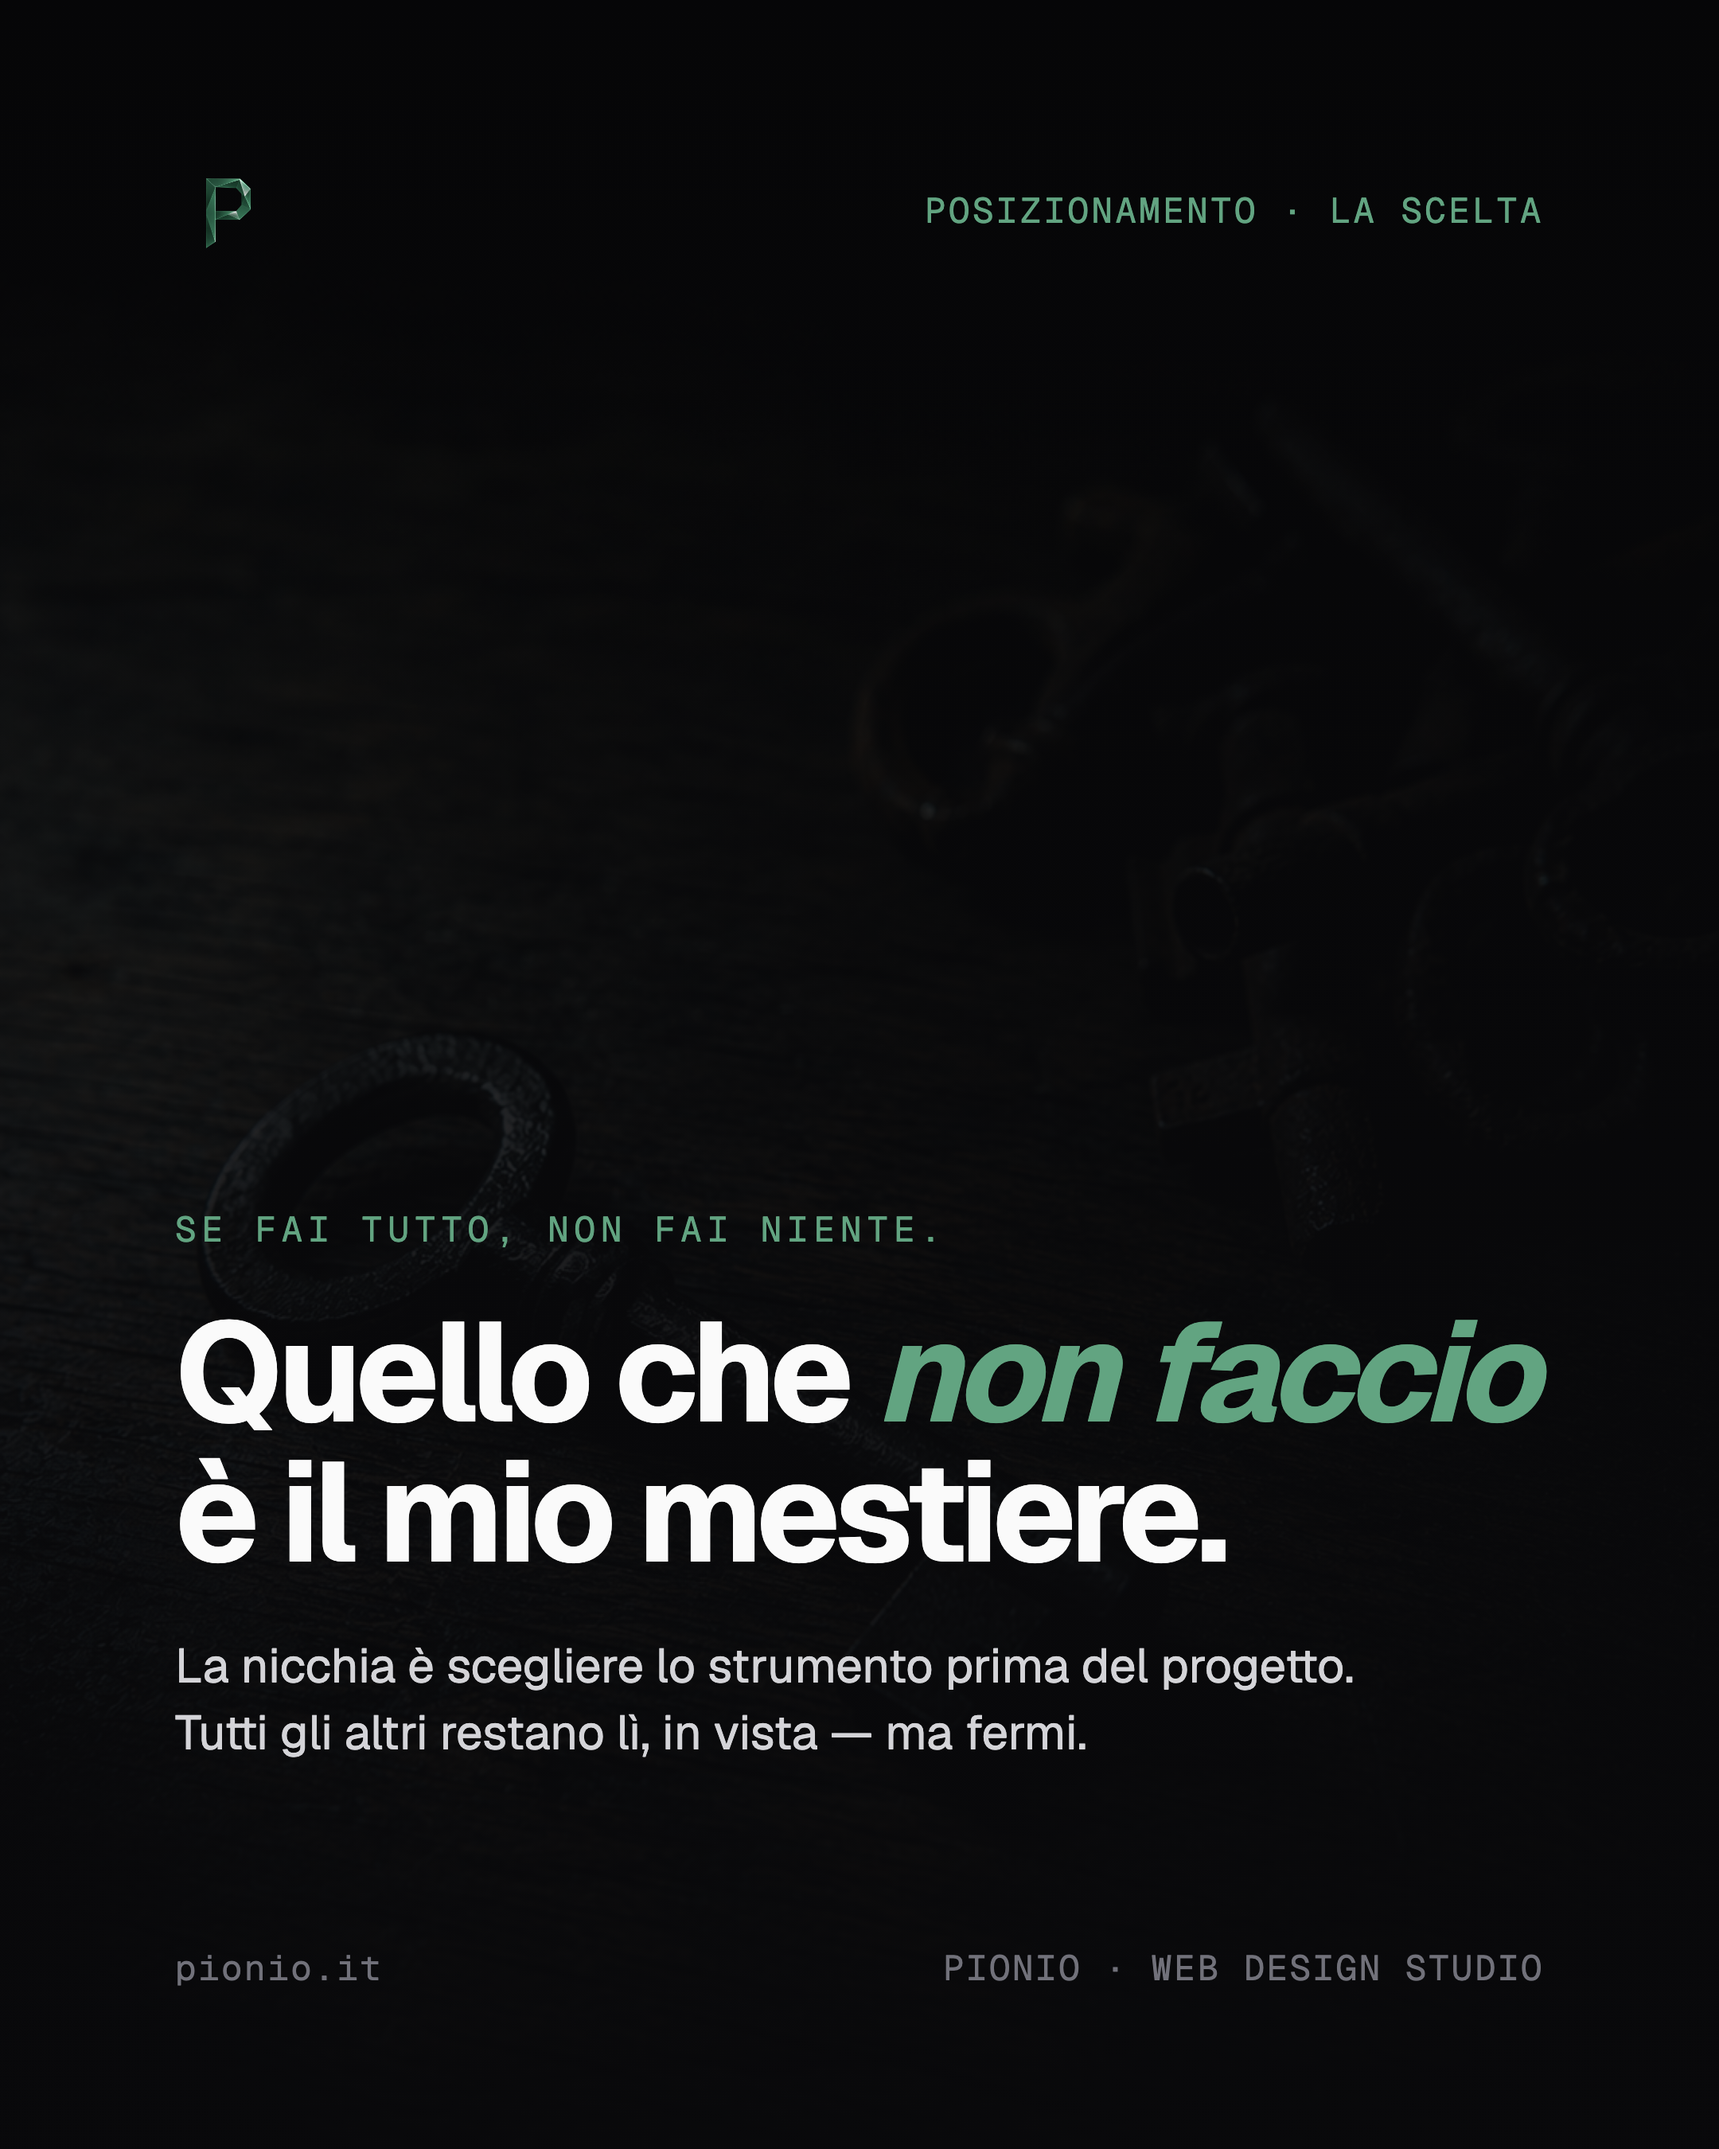
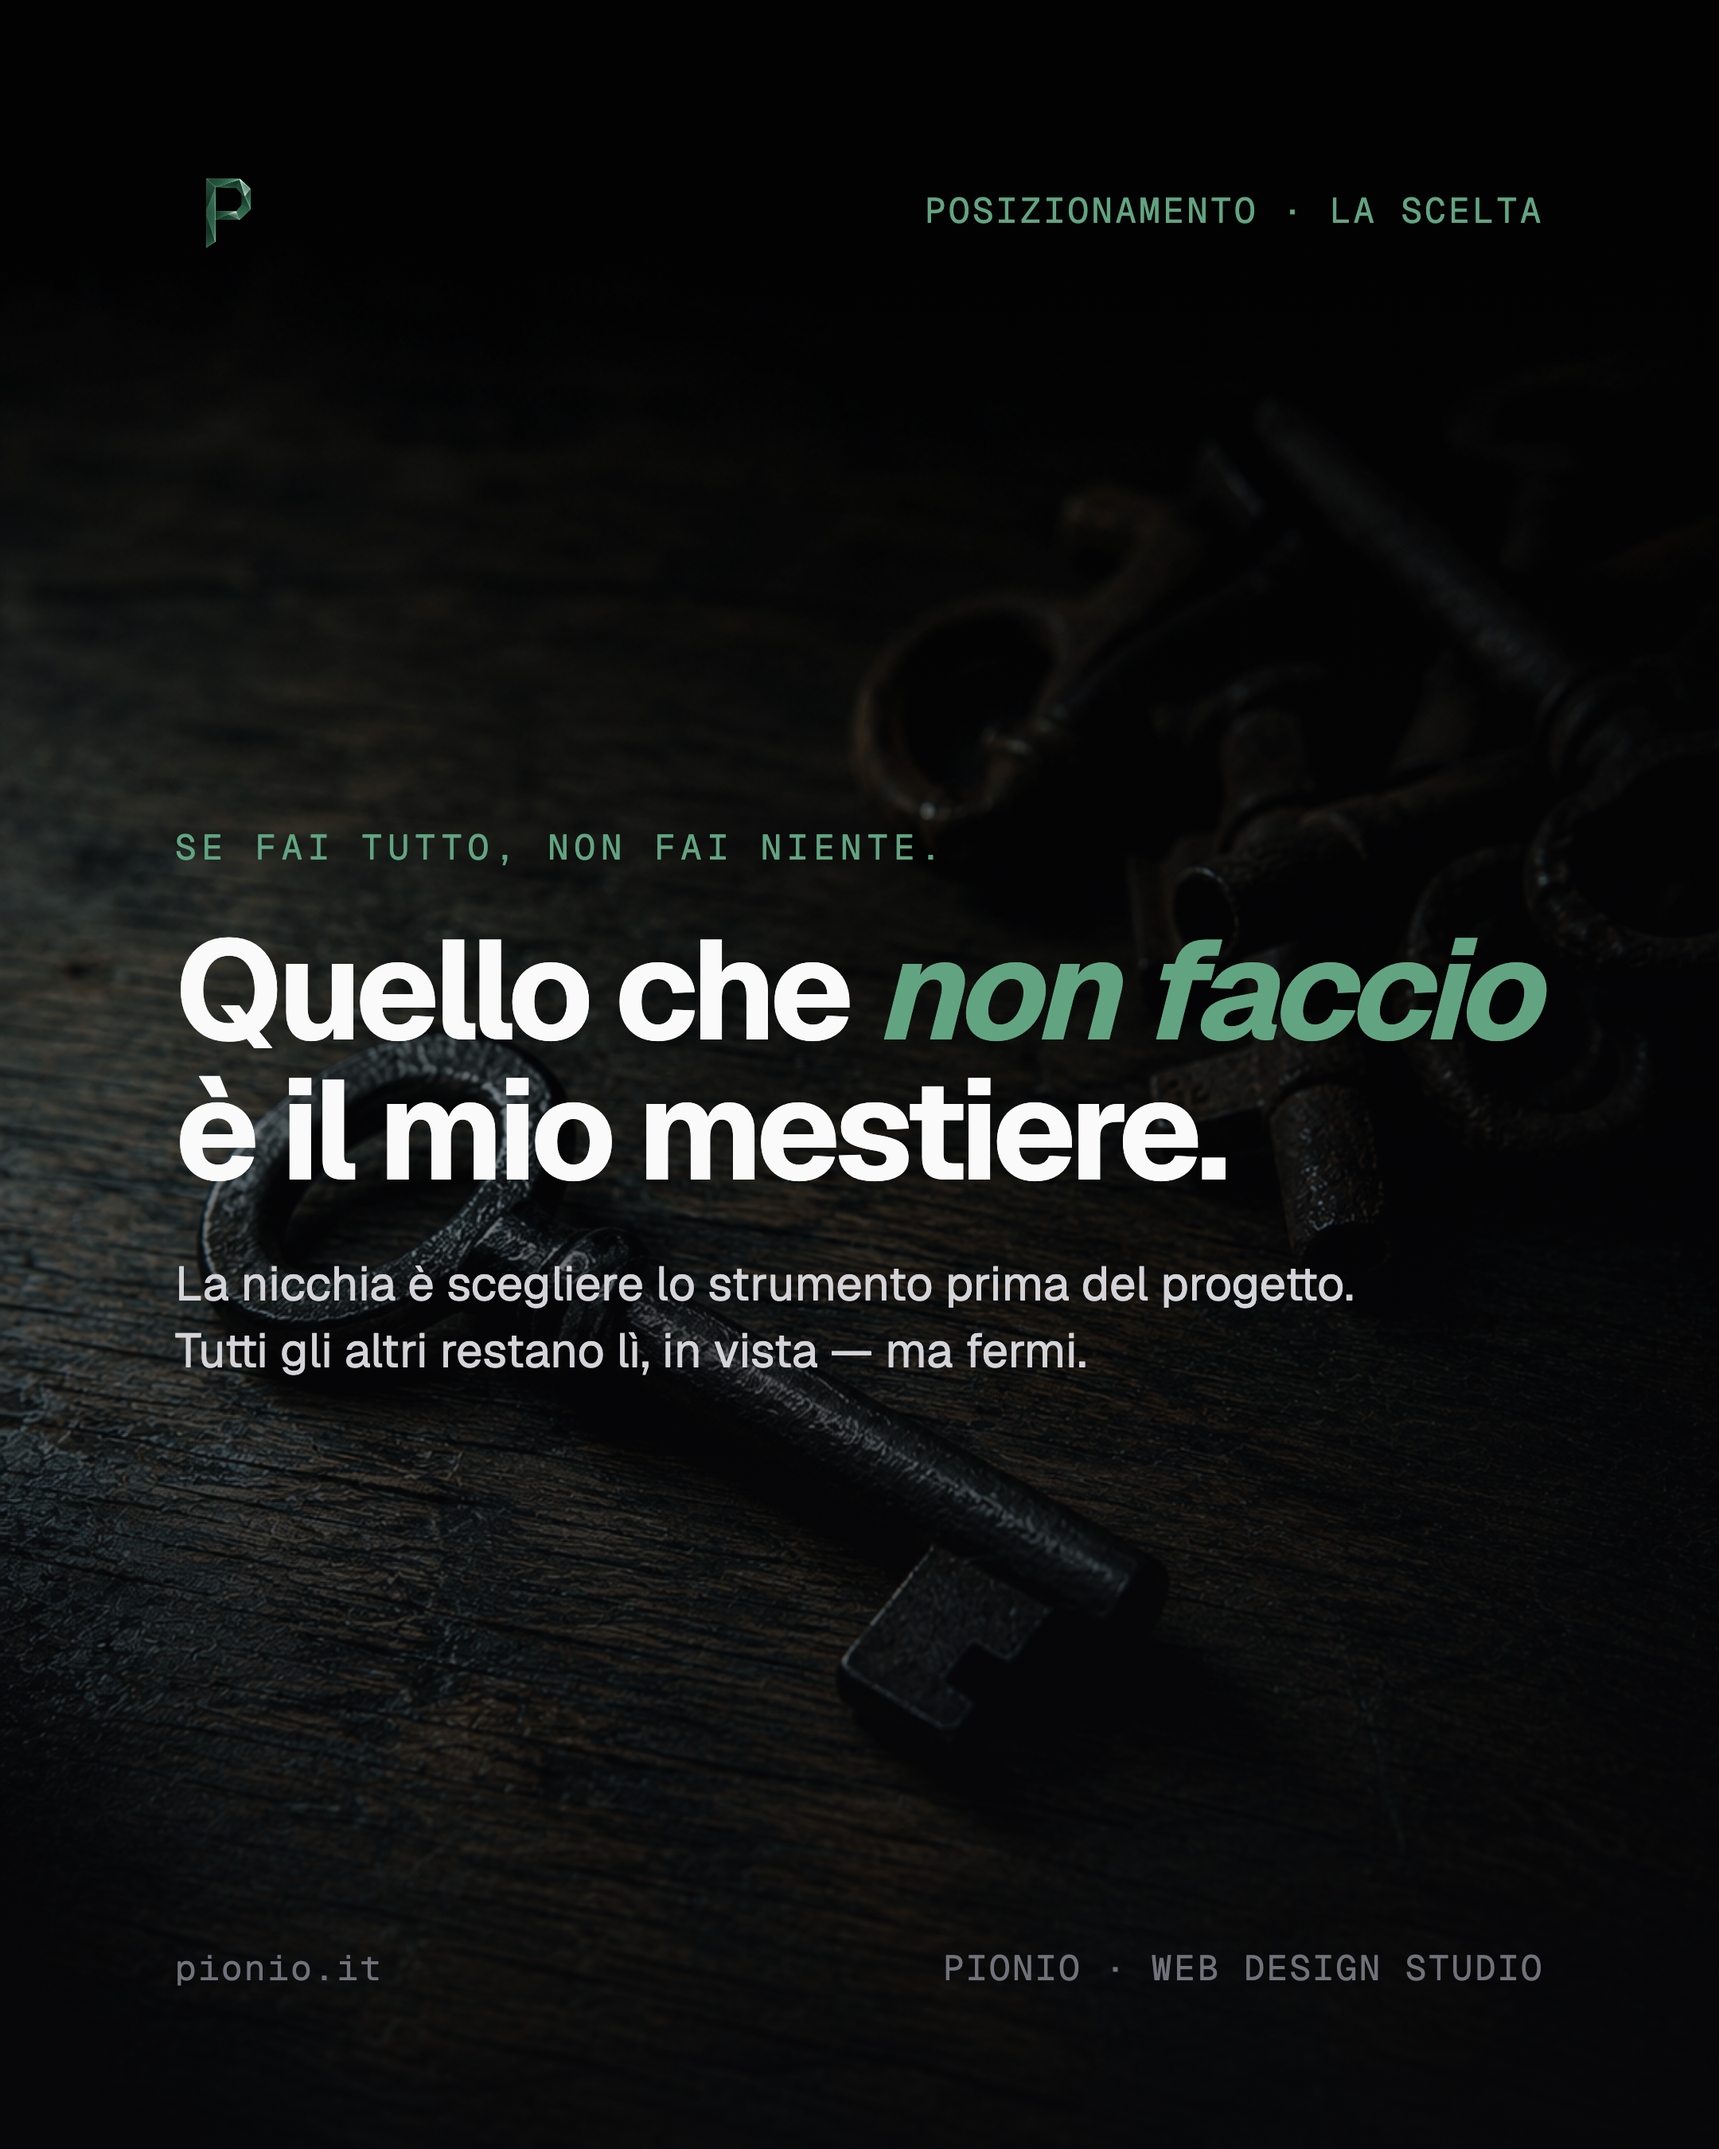
fix(instagram): W7 Hero rialzato + overlay morbido, Mark fix 'a cui dicevo sì'

diff --git a/instagram/content/settimana-07-giu-2026/3-mer-1-13-hero-non-faccio/src/slides.html b/instagram/content/settimana-07-giu-2026/3-mer-1-13-hero-non-faccio/src/slides.html
@@ -15,16 +15,16 @@
 
   .slide { width: 1080px; height: 1350px; background: var(--bg); position: relative; overflow: hidden; }
 
-  .hero-img { position: absolute; inset: 0; width: 100%; height: 100%; object-fit: cover; object-position: center; display: block; opacity: 0.55; }
+  .hero-img { position: absolute; inset: 0; width: 100%; height: 100%; object-fit: cover; object-position: center; display: block; opacity: 0.85; }
 
-  .hero-overlay { position: absolute; inset: 0; background: linear-gradient(180deg, rgba(9,9,11,0.4) 0%, rgba(9,9,11,0.85) 60%, rgba(9,9,11,0.95) 100%); }
+  .hero-overlay { position: absolute; inset: 0; background: linear-gradient(180deg, rgba(9,9,11,0.15) 0%, rgba(9,9,11,0.35) 45%, rgba(9,9,11,0.75) 100%); }
 
   .header { position: absolute; top: 100px; left: 110px; right: 110px; display: flex; align-items: center; justify-content: space-between; z-index: 3; }
   .logo { width: 64px; height: 64px; }
   .logo img { width: 100%; height: 100%; object-fit: contain; }
   .eyebrow { font-family: "Geist Mono", monospace; font-weight: 400; font-size: 22px; color: var(--accent); letter-spacing: 0.08em; text-transform: uppercase; }
 
-  .main { position: absolute; left: 110px; right: 110px; bottom: 240px; z-index: 3; display: flex; flex-direction: column; gap: 32px; }
+  .main { position: absolute; left: 110px; right: 110px; bottom: 480px; z-index: 3; display: flex; flex-direction: column; gap: 32px; }
   .hero-kicker { font-family: "Geist Mono", monospace; font-size: 22px; color: var(--accent); letter-spacing: 0.16em; text-transform: uppercase; }
   .hero-title { font-family: "Geist", sans-serif; font-weight: 700; font-size: 88px; line-height: 1.0; letter-spacing: -0.04em; color: var(--text); max-width: 880px; }
   .hero-title em { font-style: italic; color: var(--accent); }

diff --git a/instagram/content/settimana-07-giu-2026/6-sab-4-13-mark-nicchia-ti-sceglie/src/slides.html b/instagram/content/settimana-07-giu-2026/6-sab-4-13-mark-nicchia-ti-sceglie/src/slides.html
@@ -37,7 +37,7 @@
     <div class="mark-kicker">RIFLESSIONE · SETTIMANA #7</div>
     <h1 class="mark-title">La nicchia non si sceglie. <em>Ti sceglie</em>.</h1>
     <p class="mark-body">
-      Per anni ho cercato di disegnarla a tavolino, come un manifesto da appendere. Ogni volta usciva una versione un poco diversa, mai precisa. Poi mi sono accorto che la nicchia vera era già lì — nei progetti che dicevo sì negli ultimi due anni, nei no che avevo lasciato cadere, nei clienti che tornavano. Non l'avevo scelta. L'avevo praticata senza nominarla. La nicchia si sceglie facendo, non scrivendo. E quando alla fine la nomini, è già da tempo lo studio che sei.
+      Per anni ho cercato di disegnarla a tavolino, come un manifesto da appendere. Ogni volta usciva una versione un poco diversa, mai precisa. Poi mi sono accorto che la nicchia vera era già lì — nei progetti a cui dicevo sì negli ultimi due anni, nei no che avevo lasciato cadere, nei clienti che tornavano. Non l'avevo scelta. L'avevo praticata senza nominarla. La nicchia si sceglie facendo, non scrivendo. E quando alla fine la nomini, è già da tempo lo studio che sei.
     </p>
   </div>
   <div class="footer">
